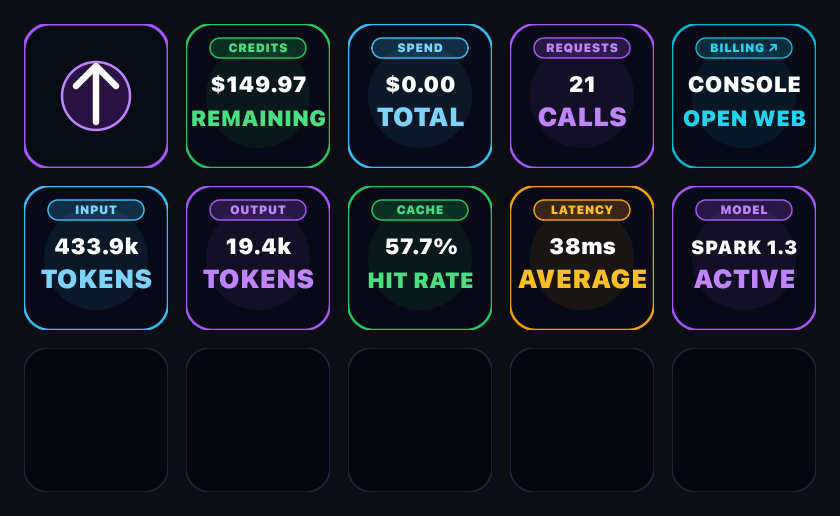
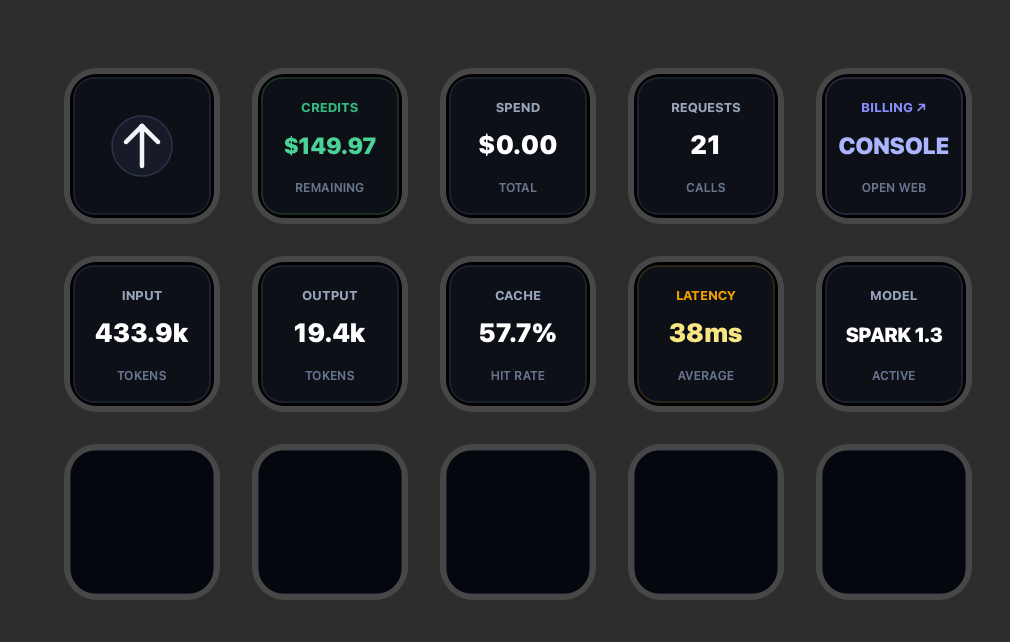
docs: replace rendered mockups with live Stream Deck app screenshots in README

diff --git a/scripts/render_all_deck_grids.ts b/scripts/render_all_deck_grids.ts
@@ -89,21 +89,21 @@ async function main() {
   const sessionsKeys = [
     SvgKeyRenderer.renderUpBackKey(),
     SvgKeyRenderer.renderNewSessionKey(),
-    SvgKeyRenderer.renderHistoricalSessionCard("17:48", "MUSEDECK", "TODAY", "#38bdf8", false),
-    SvgKeyRenderer.renderHistoricalSessionCard("17:31", "MUSEDECK", "TODAY", "#38bdf8", false),
-    SvgKeyRenderer.renderHistoricalSessionCard("16:03", "MUSEDECK", "TODAY", "#38bdf8", false),
+    SvgKeyRenderer.renderHistoricalSessionCard(1, "MUSEDECK", "TODAY", "21:49", "today"),
+    SvgKeyRenderer.renderHistoricalSessionCard(2, "MUSEDECK", "TODAY", "21:49", "today"),
+    SvgKeyRenderer.renderHistoricalSessionCard(3, "MUSEDECK", "TODAY", "21:49", "today"),
 
-    SvgKeyRenderer.renderHistoricalSessionCard("16:02", "MUSEDECK", "TODAY", "#38bdf8", false),
-    SvgKeyRenderer.renderHistoricalSessionCard("15:44", "MUSEDECK", "YESTRDY", "#f59e0b", false),
-    SvgKeyRenderer.renderHistoricalSessionCard("15:44", "MUSEDECK", "YESTRDY", "#f59e0b", false),
-    SvgKeyRenderer.renderHistoricalSessionCard("20:05", "MUSEDECK", "OCT 29", "#a855f7", false),
-    SvgKeyRenderer.renderHistoricalSessionCard("20:05", "MUSEDECK", "OCT 29", "#a855f7", false),
+    SvgKeyRenderer.renderHistoricalSessionCard(4, "MUSEDECK", "TODAY", "16:02", "today"),
+    SvgKeyRenderer.renderHistoricalSessionCard(5, "MUSEDECK", "YESTRDY", "15:44", "yesterday"),
+    SvgKeyRenderer.renderHistoricalSessionCard(6, "MUSEDECK", "YESTRDY", "15:44", "yesterday"),
+    SvgKeyRenderer.renderHistoricalSessionCard(7, "MUSEDECK", "OCT 29", "20:05", "older"),
+    SvgKeyRenderer.renderHistoricalSessionCard(8, "MUSEDECK", "OCT 29", "20:05", "older"),
 
-    SvgKeyRenderer.renderHistoricalSessionCard("20:05", "MUSEDECK", "OCT 29", "#a855f7", false),
-    SvgKeyRenderer.renderHistoricalSessionCard("19:18", "GLOBAL", "OCT 29", "#a855f7", false),
-    SvgKeyRenderer.renderHistoricalSessionCard("21:27", "MUSEDECK", "OCT 28", "#a855f7", false),
-    SvgKeyRenderer.renderHistoricalSessionCard("21:03", "GRID", "OCT 28", "#a855f7", false),
-    SvgKeyRenderer.renderHistoricalSessionCard("20:15", "MUSEDECK", "OCT 28", "#a855f7", false)
+    SvgKeyRenderer.renderHistoricalSessionCard(9, "MUSEDECK", "OCT 29", "20:05", "older"),
+    SvgKeyRenderer.renderHistoricalSessionCard(10, "GLOBAL", "OCT 29", "19:18", "older"),
+    SvgKeyRenderer.renderHistoricalSessionCard(11, "MUSEDECK", "OCT 28", "21:27", "older"),
+    SvgKeyRenderer.renderHistoricalSessionCard(12, "GRID", "OCT 28", "21:03", "older"),
+    SvgKeyRenderer.renderHistoricalSessionCard(13, "MUSEDECK", "OCT 28", "20:15", "older")
   ];
   await renderGrid(sessionsKeys, "./assets/deck_sessions_submenu.png");
 
